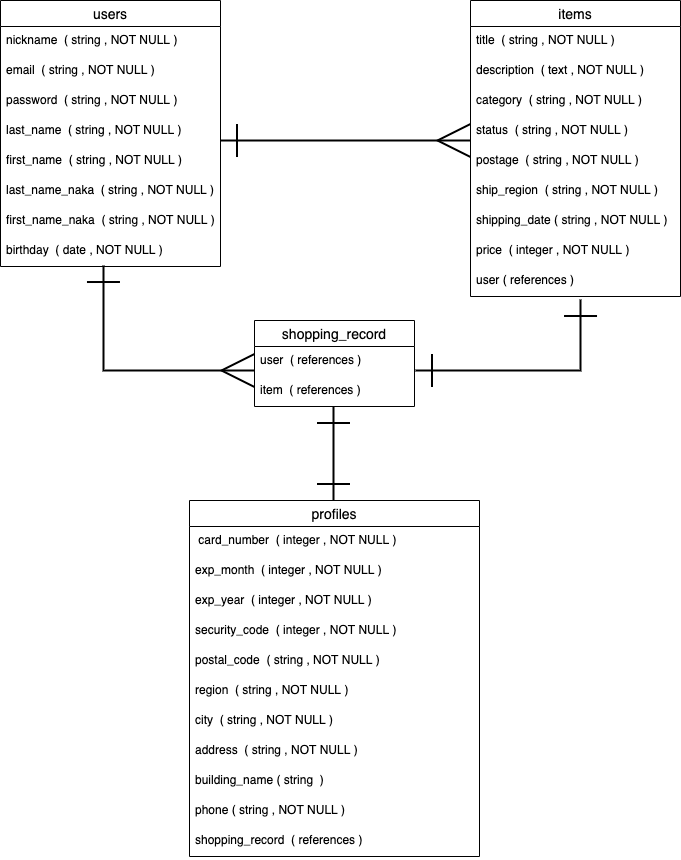
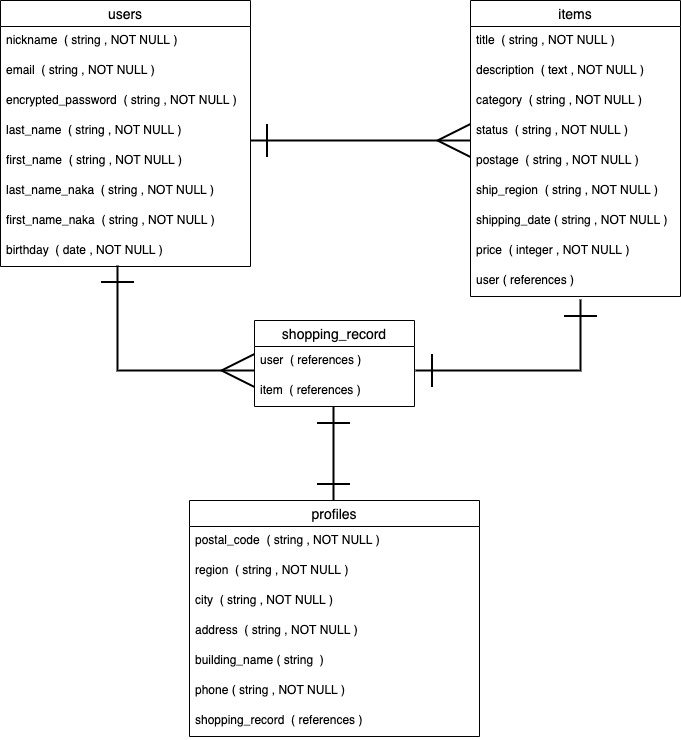
データベース設計（自己修正後）

diff --git a/README.md b/README.md
@@ -44,10 +44,6 @@
 
 | Column          | Type       | Options                        |
 | --------------- | ---------- | ------------------------------ |
-| card_number     | integer    | null: false                    |
-| exp_month       | integer    | null: false                    |
-| exp_year        | integer    | null: false                    |
-| security_code   | integer    | null: false                    |
 | postal_code     | string     | null: false                    |
 | region          | string     | null: false                    |
 | city            | string     | null: false                    |
